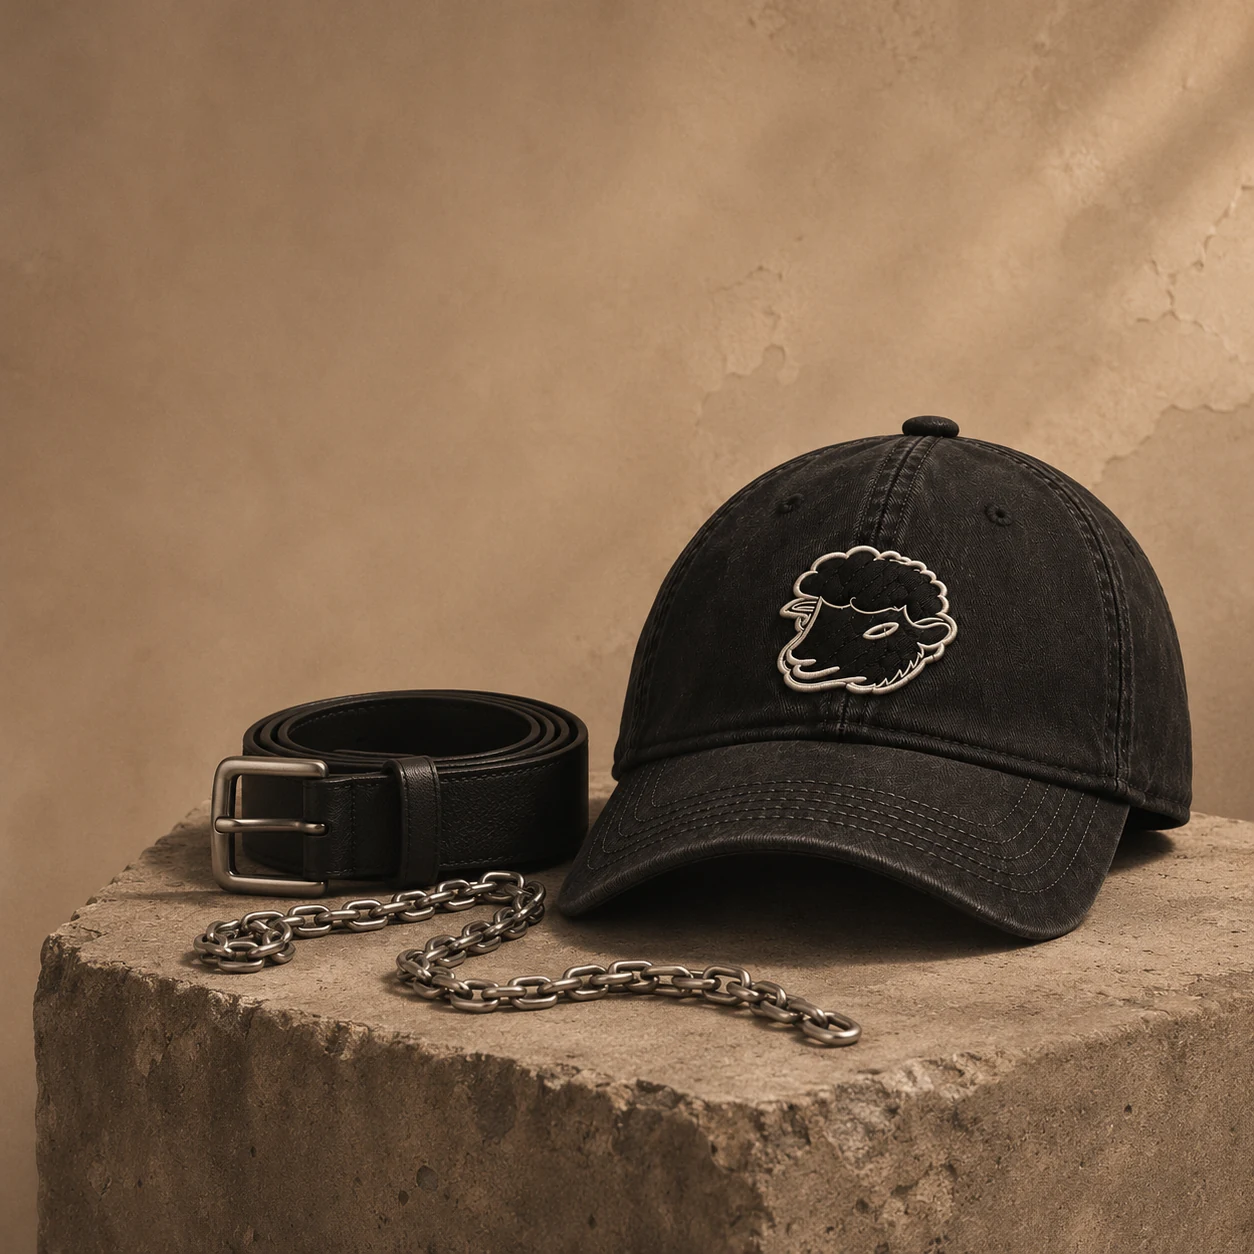
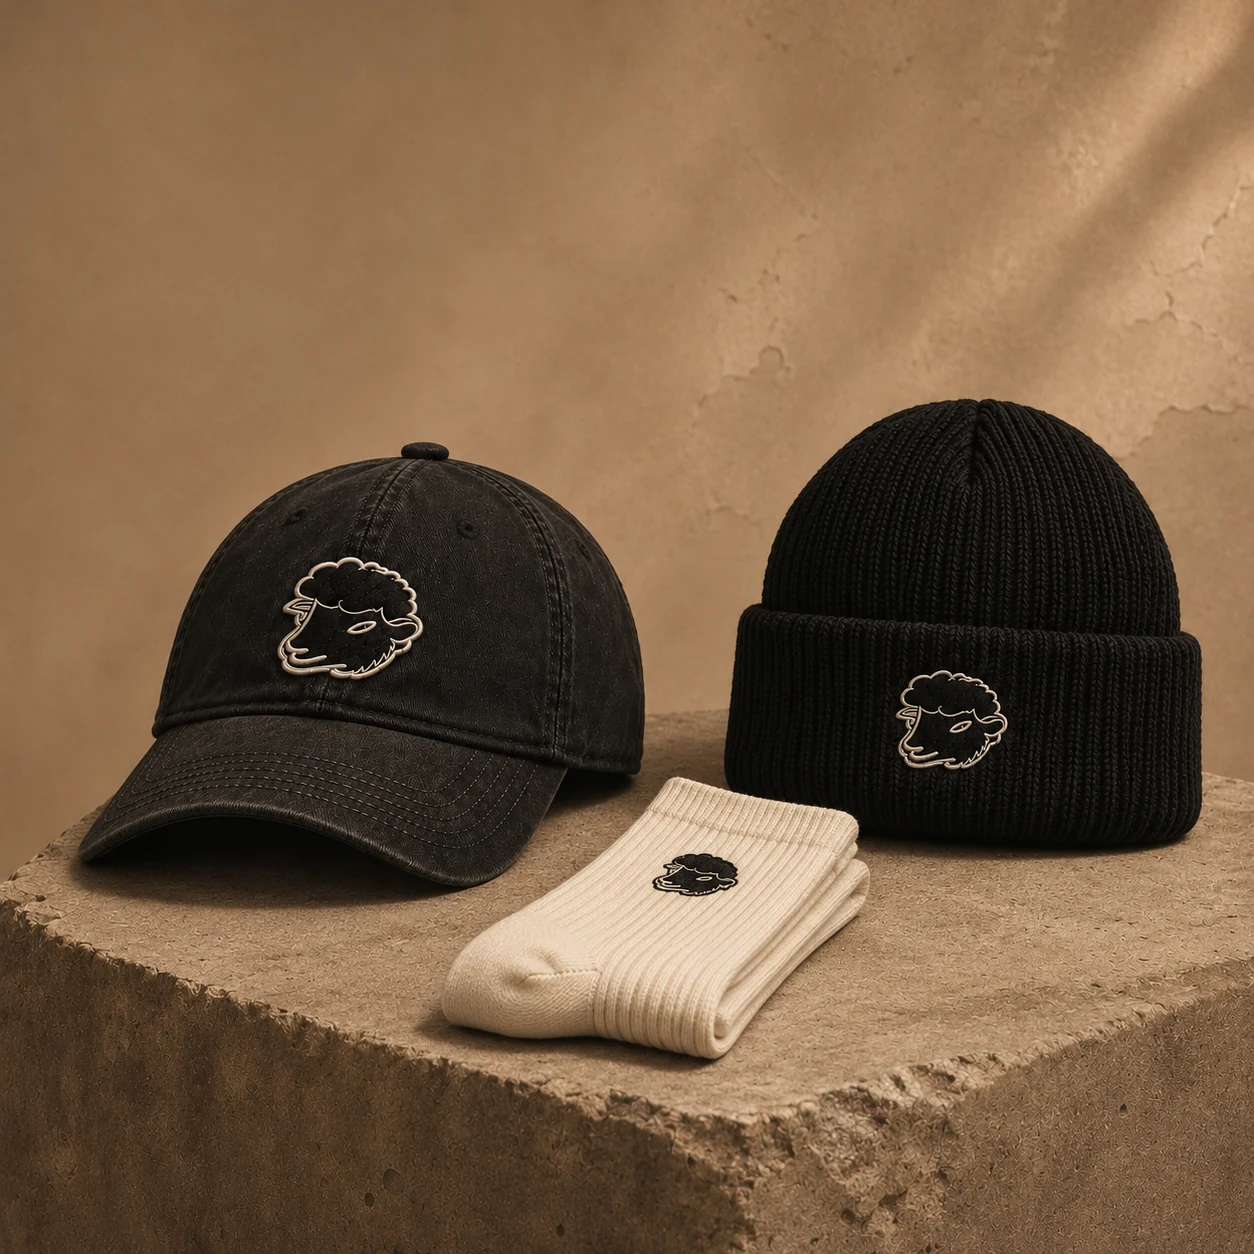
Update accessories image with Codex assistance

diff --git a/produtos.html b/produtos.html
@@ -76,7 +76,7 @@
           </span>
         </a>
         <a class="rhema-category-card rhema-category-card--accessories" href="produtos.html?categoria=Acess%C3%B3rios#catalogo" aria-label="Explorar acessórios RHEMA">
-          <img src="imagens/categorias-editoriais/acessorios-editorial.webp" alt="Boné preto RHEMA, cinto preto e corrente metálica sobre pedestal de concreto" loading="lazy" decoding="async">
+          <img src="imagens/categorias-editoriais/acessorios-editorial.webp" alt="Boné preto RHEMA, par de meias claras com emblema e gorro preto sobre pedestal de concreto" loading="lazy" decoding="async">
           <span class="rhema-category-content">
             <span class="rhema-category-label">Acessórios</span>
             <span class="rhema-category-rule" aria-hidden="true"></span>
